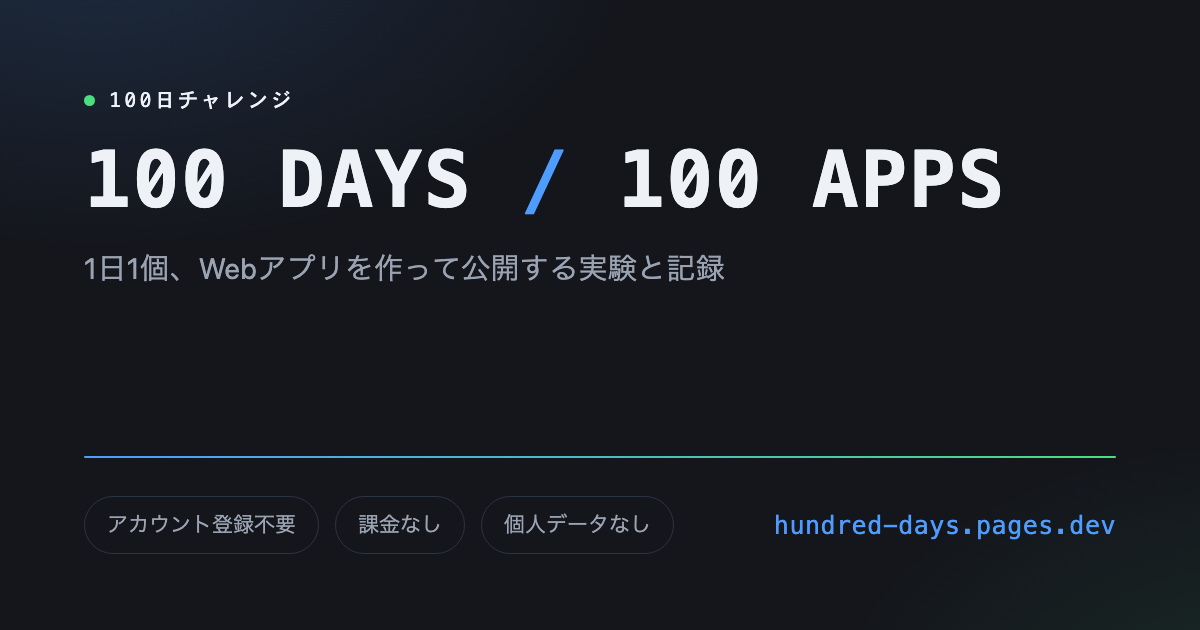
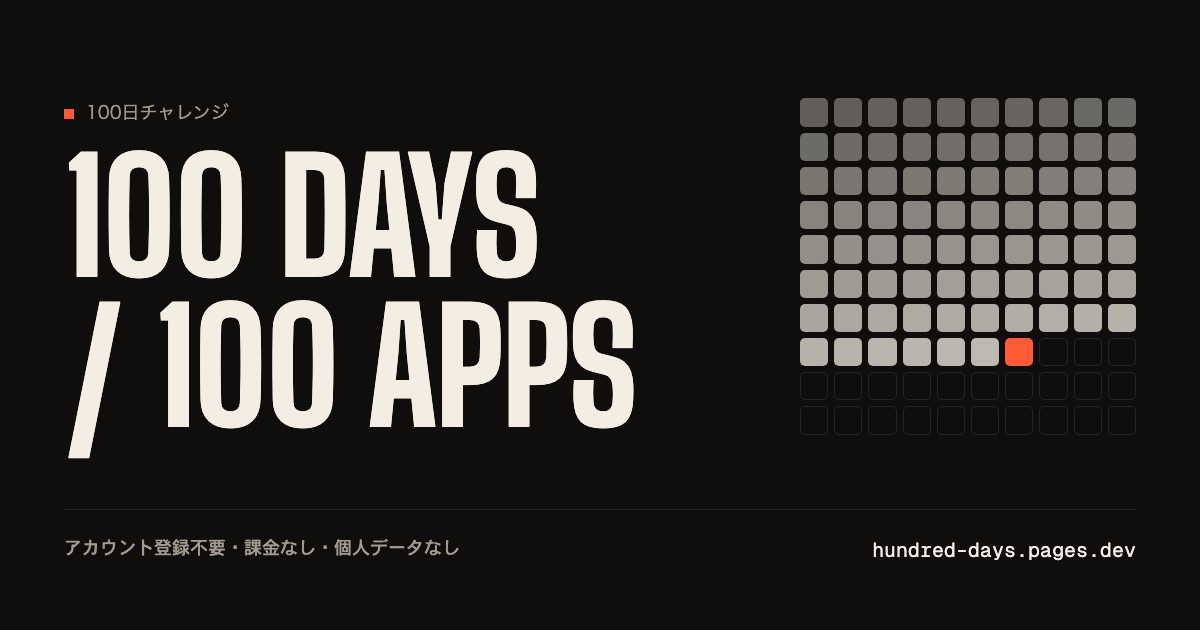
feat(og): OG画像を新しい見た目に合わせて作り直す
マスの点灯数は meta.json の最新の公開Dayから数える（?lit=）。件数の文字は絵に入れない。
同梱書体を読み込めなければ作り直しを止める。

diff --git a/scripts/og-template.html b/scripts/og-template.html
@@ -4,50 +4,60 @@
 <meta charset="UTF-8">
 <title>OG image source</title>
 <style>
-  :root{
-    --bg:#14161c; --line:#2c3342;
-    --text:#eef1f6; --muted:#9aa3b2; --accent:#4f9cff; --live:#4ade80;
-    --mono:ui-monospace,"SF Mono",Menlo,monospace;
-    --sans:-apple-system,BlinkMacSystemFont,"Hiragino Sans","Yu Gothic","Noto Sans JP","Segoe UI",sans-serif;
+  @font-face {
+    font-family:"Big Shoulders Display";
+    src:url("../static/assets/fonts/BigShouldersDisplay-latin-wght.woff2") format("woff2");
+    font-weight:100 900;
+    font-display:swap;
   }
-  *{box-sizing:border-box;margin:0;padding:0;}
-  html,body{width:1200px;height:630px;}
-  body{
-    background:
-      radial-gradient(900px 520px at 8% -10%, rgba(79,156,255,.16), transparent 60%),
-      radial-gradient(700px 460px at 105% 115%, rgba(74,222,128,.10), transparent 62%),
-      var(--bg);
-    color:var(--text);font-family:var(--sans);
-    padding:88px 84px 76px;display:flex;flex-direction:column;
+  @font-face {
+    font-family:"Geist Mono";
+    src:url("../static/assets/fonts/GeistMono-latin-wght.woff2") format("woff2");
+    font-weight:100 900;
+    font-display:swap;
   }
-  .eyebrow{display:flex;align-items:center;gap:14px;font-family:var(--mono);
-    font-size:20px;letter-spacing:.16em;color:var(--text);}
-  .eyebrow::before{content:"";width:11px;height:11px;border-radius:50%;background:var(--live);}
-  .title{margin-top:26px;font-family:var(--mono);font-weight:700;font-size:78px;
-    letter-spacing:.02em;line-height:1.1;white-space:nowrap;}
-  .title .slash{color:var(--accent);}
-  .sub{margin-top:22px;font-size:29px;color:var(--muted);letter-spacing:.01em;}
-  .rule{margin-top:auto;height:2px;border-radius:2px;
-    background:linear-gradient(90deg,var(--accent),var(--live));}
-  .foot{margin-top:38px;display:flex;align-items:center;justify-content:space-between;gap:24px;}
-  .chips{display:flex;gap:16px;}
-  .chip{border:1px solid var(--line);border-radius:999px;padding:12px 22px;
-    font-size:21px;color:var(--muted);white-space:nowrap;}
-  .url{font-family:var(--mono);font-size:25px;letter-spacing:.02em;color:var(--accent);white-space:nowrap;}
+  :root { --bg:#0f0e0d; --ink:#f3ede3; --muted:#a39a8e; --signal:#ff5a36; --line:rgba(243,237,227,.10); }
+  * { box-sizing:border-box; margin:0; padding:0; }
+  html,body { width:1200px; height:630px; }
+  body {
+    display:grid;
+    grid-template-columns:minmax(0,1fr) 336px;
+    grid-template-rows:1fr auto;
+    gap:40px;
+    padding:64px;
+    background:var(--bg);
+    color:var(--ink);
+    font-family:-apple-system,"Hiragino Sans","Yu Gothic UI",sans-serif;
+  }
+  .copy { align-self:center; }
+  .eyebrow { color:var(--muted); font-size:18px; margin-bottom:24px; }
+  .eyebrow::before { content:""; display:inline-block; width:10px; height:10px; margin-right:12px; background:var(--signal); }
+  h1 { font:800 156px/.86 "Big Shoulders Display",Impact,sans-serif; letter-spacing:-.01em; }
+  h1 span { display:block; white-space:nowrap; }
+  h1 span + span { margin-top:.10em; }
+  .matrix { display:grid; grid-template-columns:repeat(10,1fr); gap:6px; align-self:center; list-style:none; }
+  .matrix li { aspect-ratio:1; border-radius:5px; }
+  .matrix .is-lit { background:rgba(243,237,227,calc(.36 + .54 * var(--i) / 100)); }
+  .matrix .is-latest { background:var(--signal); }
+  .matrix .is-todo { border:1px solid var(--line); }
+  .foot { grid-column:1 / -1; display:flex; justify-content:space-between; gap:24px; padding-top:24px; border-top:1px solid var(--line); font:400 18px/1.6 "Geist Mono",monospace; color:var(--muted); }
+  .url { font-size:20px; color:var(--ink); white-space:nowrap; }
 </style>
 </head>
 <body>
-  <p class="eyebrow">100日チャレンジ</p>
-  <h1 class="title">100 DAYS <span class="slash">/</span> 100 APPS</h1>
-  <p class="sub">1日1個、Webアプリを作って公開する実験と記録</p>
-  <div class="rule"></div>
-  <div class="foot">
-    <div class="chips">
-      <span class="chip">アカウント登録不要</span>
-      <span class="chip">課金なし</span>
-      <span class="chip">個人データなし</span>
-    </div>
-    <span class="url">hundred-days.pages.dev</span>
-  </div>
+  <div class="copy"><p class="eyebrow">100日チャレンジ</p><h1><span>100 DAYS</span><span>/ 100 APPS</span></h1></div>
+  <ol class="matrix" aria-hidden="true"></ol>
+  <div class="foot"><span>アカウント登録不要・課金なし・個人データなし</span><span class="url">hundred-days.pages.dev</span></div>
+<script>
+  /* 点灯するマスの数は、作った時点の最新のDay（make-og.mjs が ?lit=N で渡す）。数字の文字は絵に入れないが、実態より進んだ絵にもしない */
+  const lit = Math.min(100, Number(new URLSearchParams(location.search).get('lit')) || 77);
+  const matrix = document.querySelector('.matrix');
+  for (let i = 0; i < 100; i++) {
+    const li = document.createElement('li');
+    li.style.setProperty('--i', i);
+    li.className = i === lit - 1 ? 'is-latest' : i < lit ? 'is-lit' : 'is-todo';
+    matrix.appendChild(li);
+  }
+</script>
 </body>
 </html>
